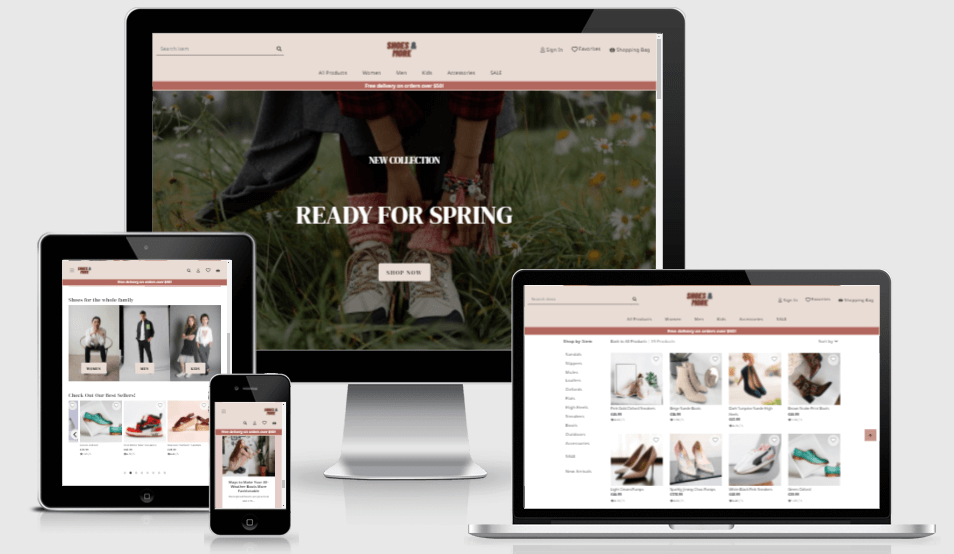
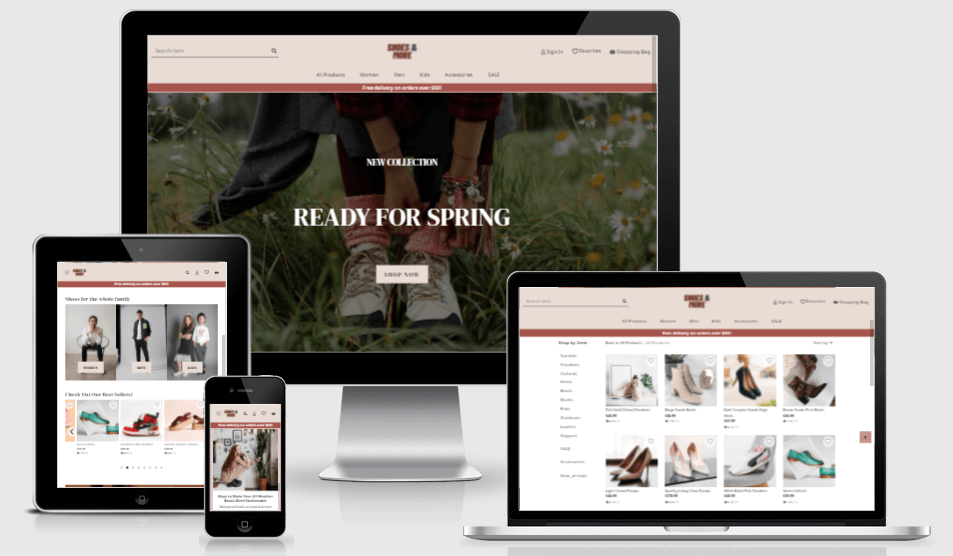
Add home page feature to readme, replace main image

diff --git a/README.md b/README.md
@@ -332,6 +332,23 @@ Toast messages provide the user the necessary feedback of their activities wheth
 ![Success toast message - with bag display](readme-testing-files/readme/toast-success.png "Success toast message - with bag display")   
 
 
+### **B. Page Features**  
+#### **1. Home Page**  
+[See the image of the Homepage here](readme-testing-files/readme/home-page.png)   
+- On the Home page, I used multiple images as a marketing strategy to attract users attention to browse more into the website, and hopefully to make a purchase.  
+- The hero-image covers 100% of the viewport height and width, with an impactful heading in a jumbotron to give the user a great first impression. It introduces the new arrivals, which are products for spring, with a CTA button to directly browse the new arrivals.  
+- The sneakers collection section provides direct navigation to the sneakers.  
+- The shoes for the whole family section provides direct navigation to the main categories based on gender/ age: Women, Men, and Kids.  
+- The best sellers section gives information to users which products have been purchased the most, which indicates the most popular products. The products are displayed in a multi-items carousel of 8 products.  
+- The final sale section provides direct navigation to the sale products.   
+- The bags and accesssories section provides direct navigation to the accessories products.  
+- The articles and blogs section displays the latest 3 articles written by store admin or other superusers. Users can also navigate to the articles page and view all articles by clicking the See More Articles button.  
+
+
+
+
+
+
 
 
 
